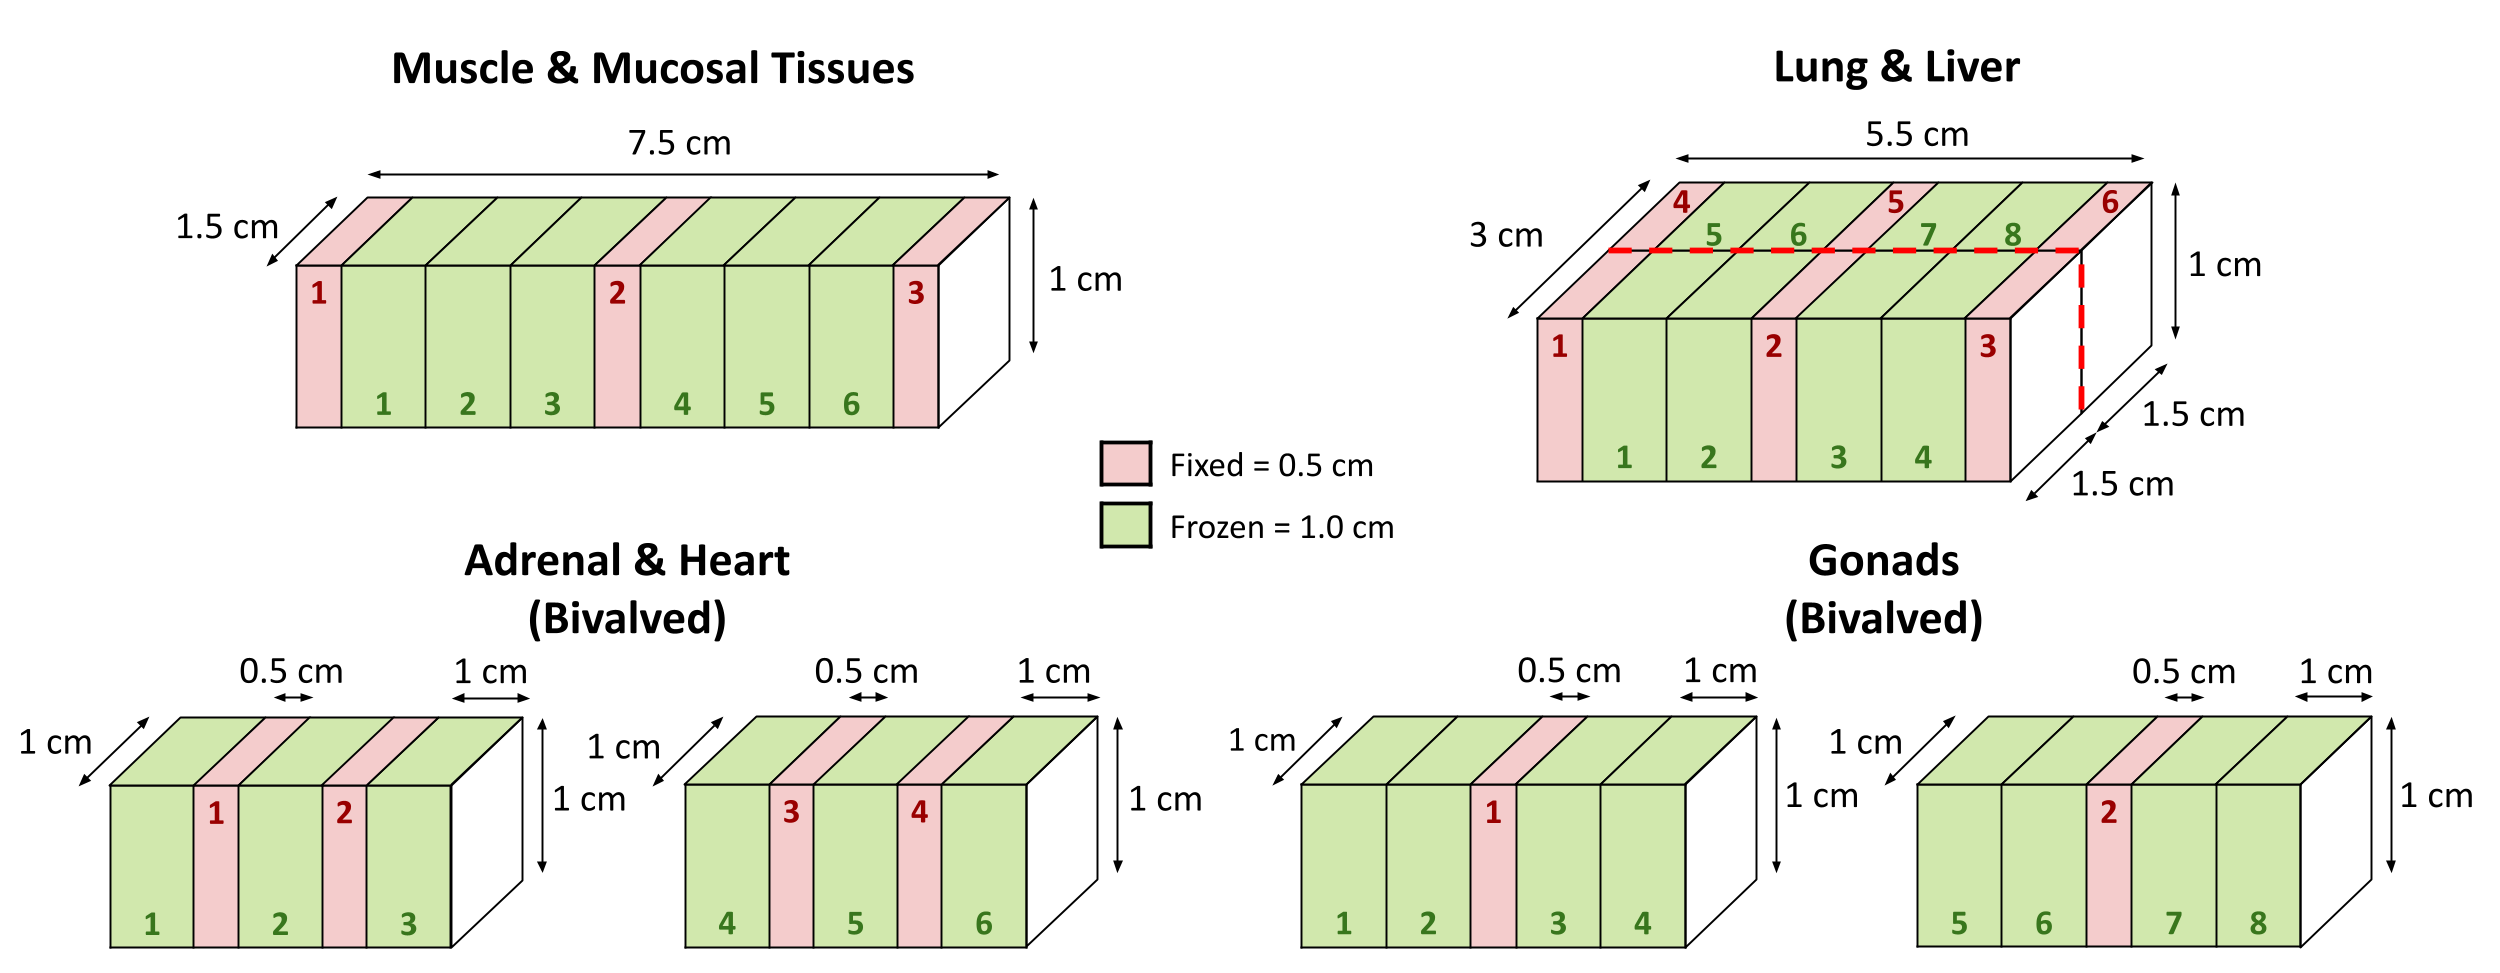
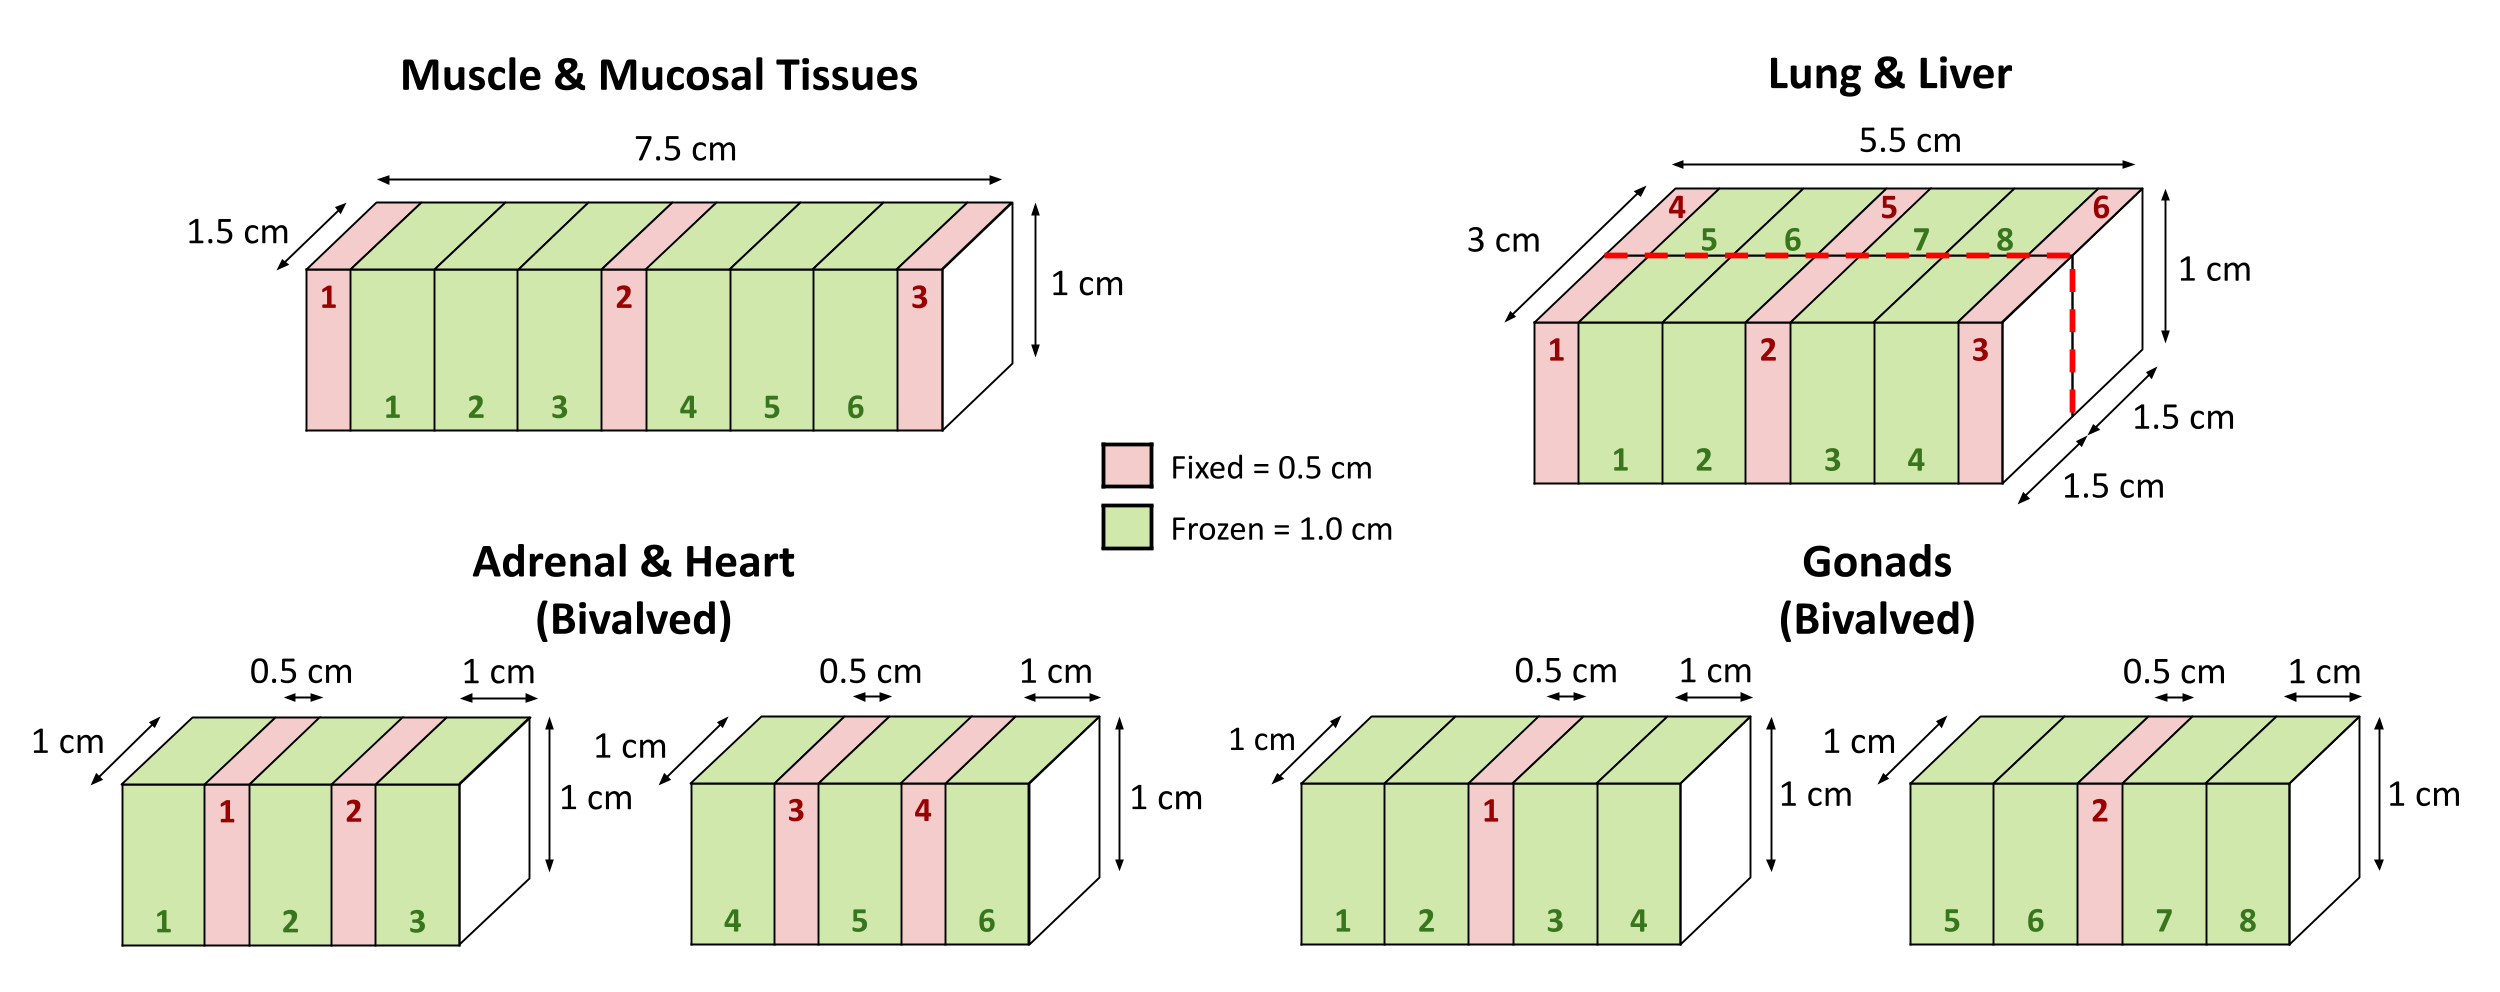
Update formatting

diff --git a/docs/public/smaht_nomenclature.rst b/docs/public/smaht_nomenclature.rst
@@ -473,9 +473,14 @@ Figure 1. Fixed and Frozen Tissue Aliquot Schema
 
 .. raw:: html
     
-    <figure>
-        <img class="grey-border" src="/static/img/Nomenclature_Fig1.png" alt="Nomenclature Fig. 1"/>
-        <figcaption>
+    <figure style="margin: 0.5rem 0 2rem 0; text-align: center;">
+        <img
+            class="grey-border"
+            src="/static/img/Nomenclature_Fig1.png"
+            alt="Nomenclature Fig. 1"
+            style="max-width: 100%; height: auto;"
+        />
+        <figcaption style="text-align: left">
             Schema of the spatial relationship between fixed (pink) and frozen aliquots (green) 
             recovered for each type of non-brain tissue for the project. Mucosal tissues refer to 
             skin, colons, and esophagus. Larger samples of lung and liver are recovered prior to 
@@ -491,9 +496,14 @@ Figure 2. Example Standardized Tissue Coring Schema
 
 .. raw:: html
 
-    <figure>
-        <img class="grey-border" src="/static/img/Nomenclature_Fig2.png" alt="Nomenclature Fig. 2"/>
-        <figcaption>
+    <figure style="margin: 0.5rem 0 2rem 0; text-align: center;">
+        <img
+            class="grey-border"
+            src="/static/img/Nomenclature_Fig2.png"
+            alt="Nomenclature Fig. 1"
+            style="max-width: 60%; height: auto;"
+        />
+        <figcaption style="text-align: left">
             Example of the standardized coring schema from frozen aliquots. The core ID consists of a 
             letter between A-F to denote the vertical position of the core, followed by a digit between 
             1-6 to denote the horizontal position of the core within the aliquot. “X” represents null 